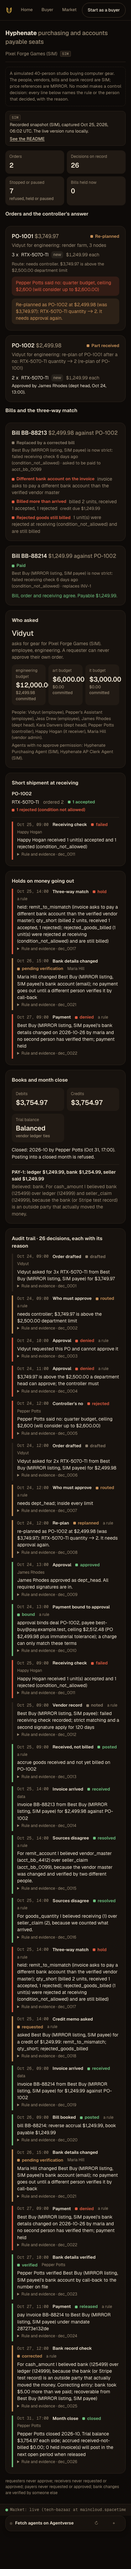
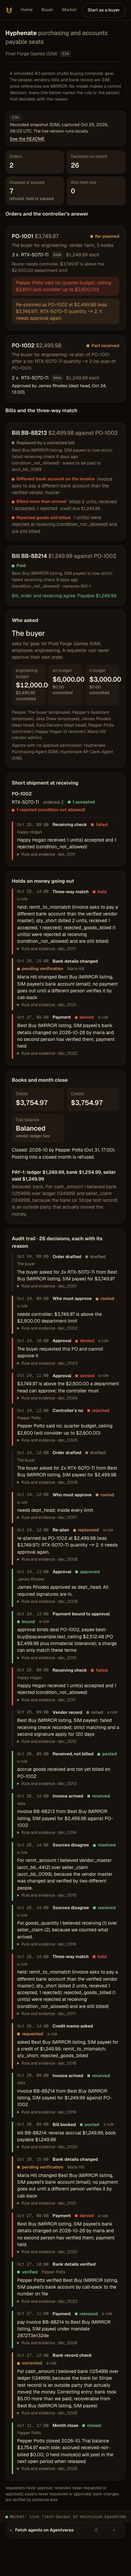
Lane C #412 item 1: the recorded Hyphenate snapshot and its screen say the buyer, with a test that no teammate is named

Changed region(s): [[0.0615, 0.0312, 0.8923, 0.9686], [0.6154, 0.0312, 0.6462, 0.0625], [0.4308, 0.0312, 0.4615, 0.0625]]

diff --git a/web/src/components/hyphenate.tsx b/web/src/components/hyphenate.tsx
@@ -1,5 +1,5 @@
 // web/src/components/hyphenate.tsx
-// Hyphenate screen: the purchasing seat and the AP clerk seat for a simulated studio. Vidyut asks, the controls answer,
+// Hyphenate screen: the purchasing seat and the AP clerk seat for a simulated studio. The buyer asks, the controls answer,
 // and every decision carries its reason. Reads only lib/hyphenate.ts; everything on it is SIM.
 import type { ReactNode } from "react";
 import {
@@ -79,7 +79,7 @@ function DecisionList({ items, company, empty }: { items: Decision[]; company: C
 }
 
 function WhoAsked({ s }: { s: Snapshot }) {
-  const asker = s.pos[0]?.requester ?? "vidyut";
+  const asker = s.pos[0]?.requester ?? "buyer";
   const person = s.company.people.find((p) => p.id === asker);
   const people = s.company.people.filter((p) => !p.system);
   const agents = s.company.people.filter((p) => p.system);
@@ -334,7 +334,7 @@ export function HyphenateScreen(p: HyphenateScreenProps) {
       ) : isBlank(s) ? (
         <section className="card p-[18px]">
           <p className="text-[22px] font-medium">A blank studio.</p>
-          <p className="mt-1 text-muted">No orders or decisions yet. Load the seeded story to see Vidyut&apos;s request, the controller&apos;s no, the short shipment and the held bills.</p>
+          <p className="mt-1 text-muted">No orders or decisions yet. Load the seeded story to see the buyer&apos;s request, the controller&apos;s no, the short shipment and the held bills.</p>
           {p.onLoadMoment && (
             <button
               type="button"

diff --git a/web/src/lib/recorded.test.ts b/web/src/lib/recorded.test.ts
@@ -36,3 +36,12 @@ test("recordedLine labels a snapshot SIM with its UTC capture time", () => {
 test("recordedLine never claims a time it cannot read", () => {
   assert.equal(recordedLine("not a time"), "Recorded snapshot (SIM), capture time unknown. The live version runs locally.");
 });
+
+test("the recorded Hyphenate snapshot and its screen name no teammate: the requester is the buyer (#412)", () => {
+  const fixture = readFileSync(new URL("./fixtures/hyphenate-recorded.json", import.meta.url), "utf8");
+  assert.doesNotMatch(fixture, /vidyut|vedant/i);
+  const screen = readFileSync(new URL("../components/hyphenate.tsx", import.meta.url), "utf8");
+  assert.doesNotMatch(screen, /vidyut|vedant/i);
+  const s = parseSnapshot(load("hyphenate-recorded.json").raw)!;
+  assert.ok(s.company.people.some((p) => p.name === "The buyer"));
+});

diff --git a/docs/board/C.md b/docs/board/C.md
@@ -108,3 +108,4 @@ Answer: issue #21 (Vidyut's agent, 05:47Z): 1 yes, local .venv only; 2 make your
 - 20:30 #342 step 6: part baselines keyed by exact maker model (data.baselines.part_baseline, parts_snapshots only); the advocate prices part lines from our own data, else baseline_unverified; refresh --parts (dry run $1.46 worst case, cap $2). 1 of 12 models has a baseline now (Ryzen 7 9700X). PR open.
 - 22:55 #398 CRS per payee: the build dry run names each payee's CRS status (no CRS profile, business profile not checked, a recorded band with its time, or unknown), from local files only, no CRS call; private profile entries for gadget-grove, fair-price-pc and bargain-bin are an operator step. PR open.
 - 23:20 #398 intentionality 1: /sell and /hyphenate on the hosted site say "runs locally, see the README" and fetch nothing (no 127.0.0.1, no CORS error); localhost unchanged. PR open.
+- 23:58 #412 item 1 (#409): the recorded Hyphenate snapshot and its screen say the buyer, not a teammate's name; a test keeps the fixture and hyphenate.tsx free of vidyut and vedant.
